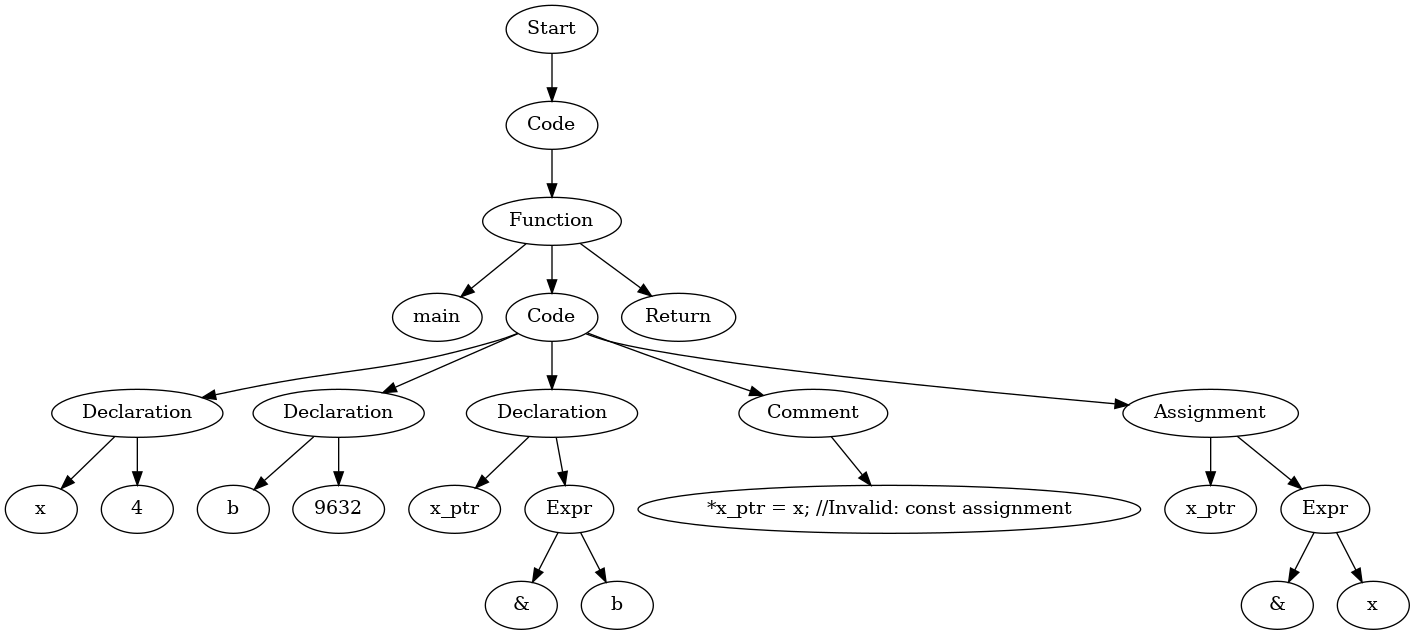
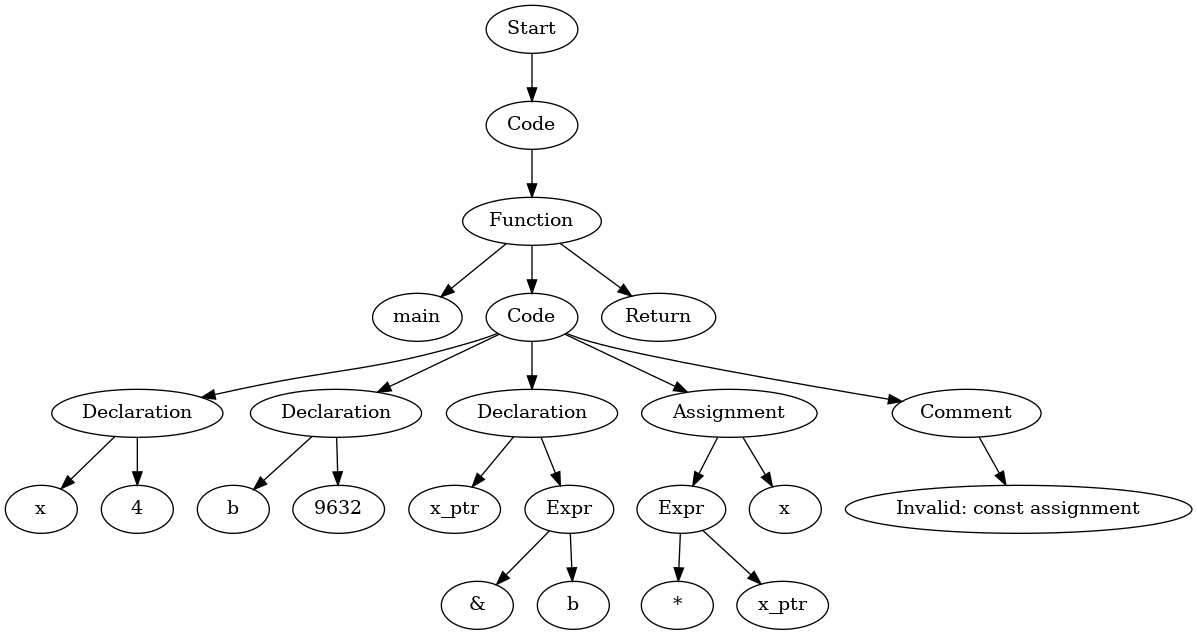
added 2 more testcases

diff --git a/TestCases/ASTTests/SemanticErrorsTests/testSemanticErrors.py b/TestCases/ASTTests/SemanticErrorsTests/testSemanticErrors.py
@@ -12,7 +12,7 @@ from src.parser.ASTDereferencer import ASTDereferencer
 
 class TestSemanticErrors(unittest.TestCase):
     def testSemanticErrors(self):
-        file_indexes = range(1, 23)
+        file_indexes = range(1, 25)
 
         os.chdir(os.path.dirname(os.path.abspath(__file__)))
 

diff --git a/TestCases/ASTTests/TypedefTests/testTypedef.py b/TestCases/ASTTests/TypedefTests/testTypedef.py
@@ -9,7 +9,7 @@ from src.parser.ASTCleaner import *
 
 class TestTypedef(unittest.TestCase):
     def testTypedefErrors(self):
-        file_indexes = range(1, 24)
+        file_indexes = range(1, 25)
 
         os.chdir(os.path.dirname(os.path.abspath(__file__)))
 

diff --git a/TestCases/ASTTests/SemanticErrorsTests/tests/test24.c b/TestCases/ASTTests/SemanticErrorsTests/tests/test24.c
@@ -3,7 +3,7 @@ int main() {
 int x = 4;
 int b = 9632;
 
-const int* const x_ptr = &b;
+const int* x_ptr = &b;
 *x_ptr = x; //Invalid: const assignment
 
     return 0;

diff --git a/TestCases/ASTTests/SemanticErrorsTests/tests/test23.c b/TestCases/ASTTests/SemanticErrorsTests/tests/test23.c
@@ -1,0 +1,8 @@
+
+
+
+
+int main() {
+    float f;
+    **f = 5;
+}
